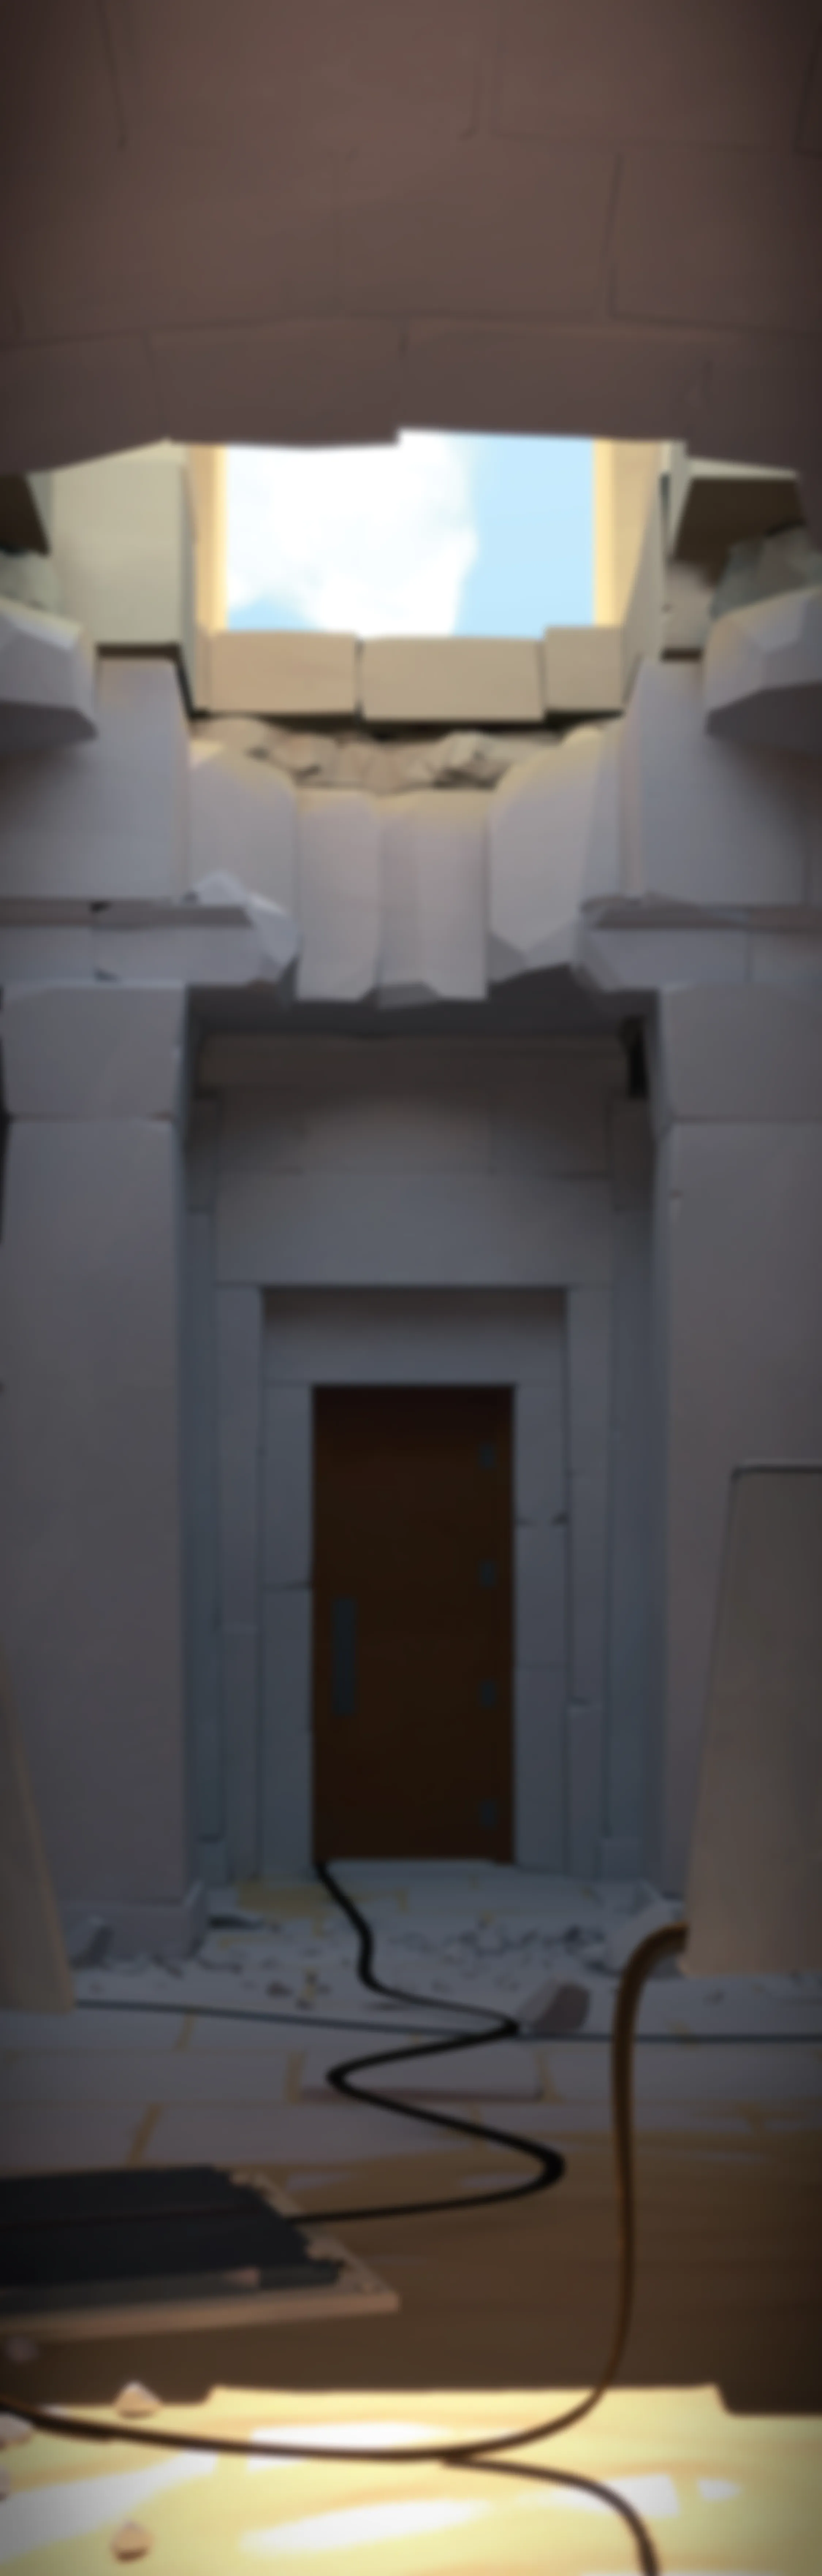
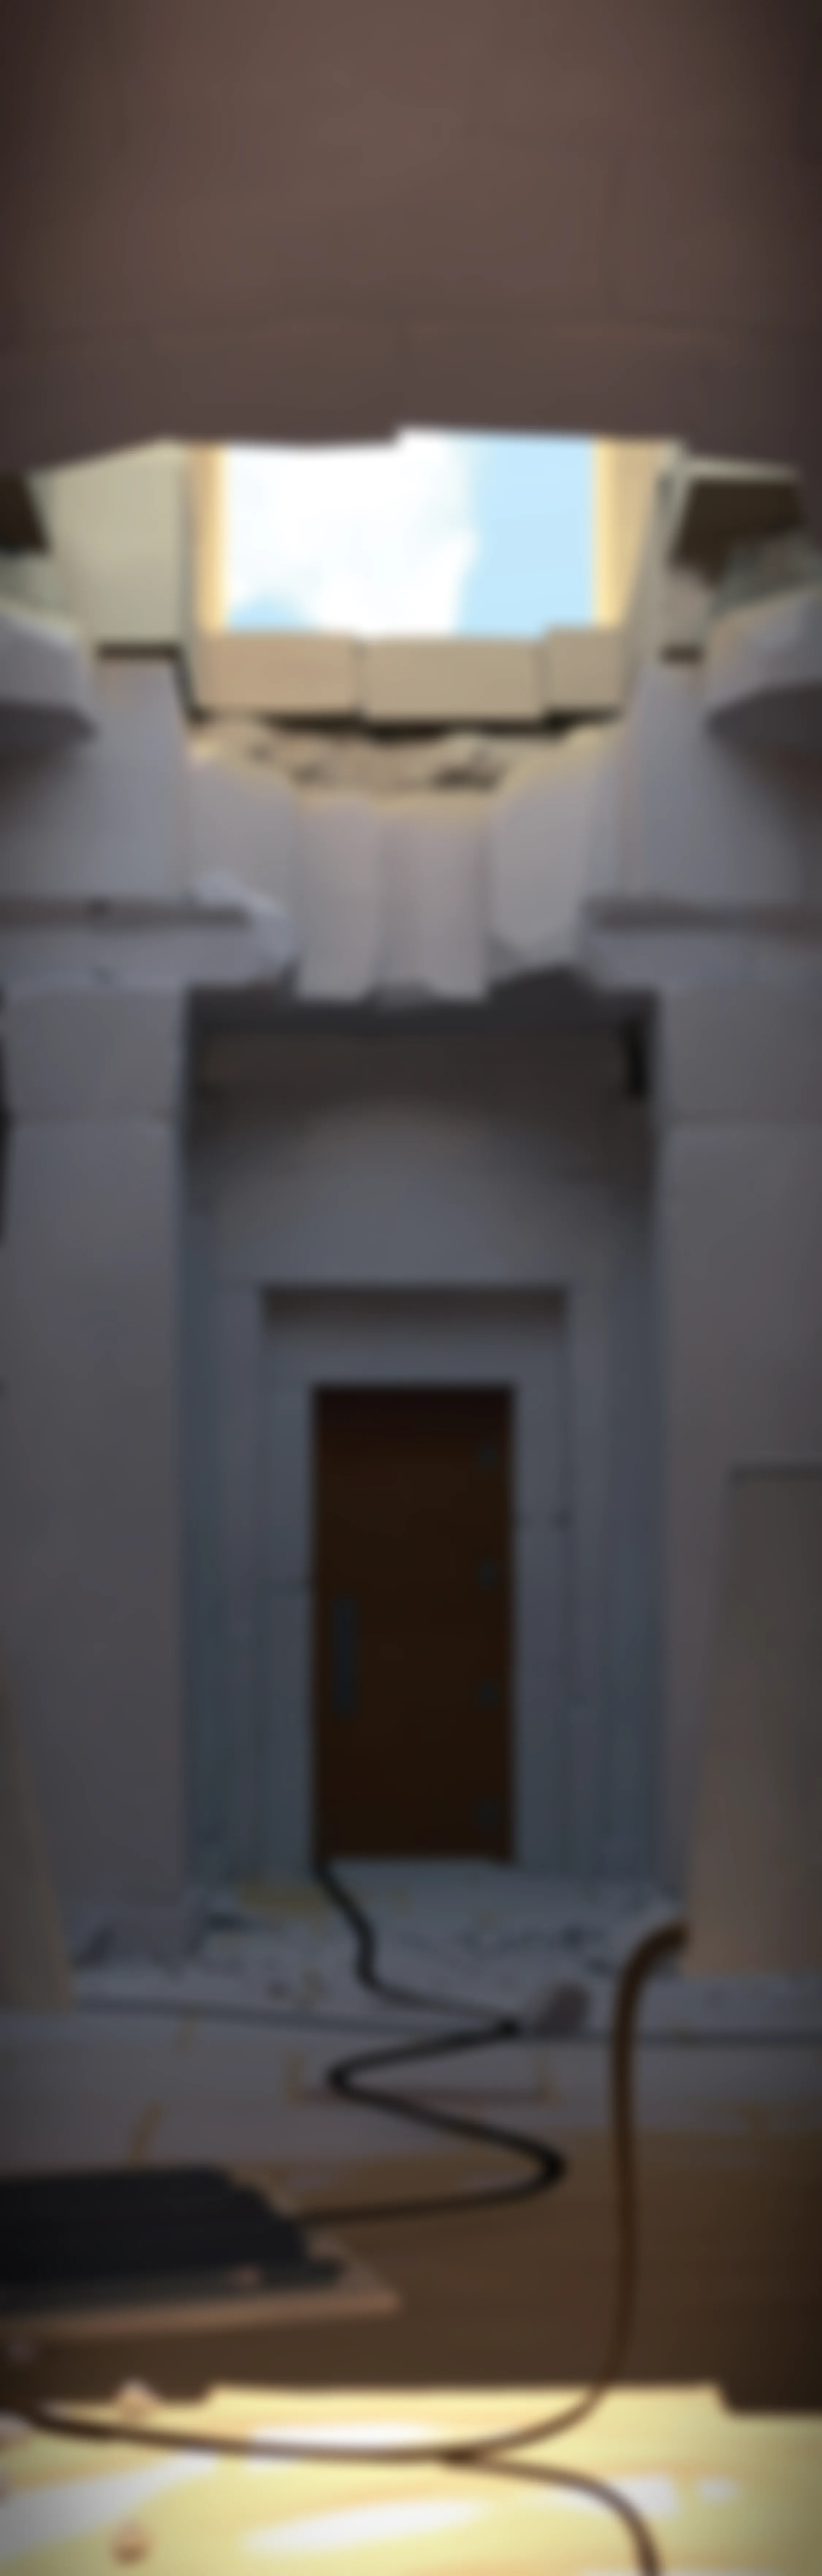
more blur and black puzzle default

diff --git a/src/app/the-witness/layout.tsx b/src/app/the-witness/layout.tsx
@@ -20,7 +20,7 @@ export default async function Layout({ children }: React.PropsWithChildren) {
           `${process.cwd()}/.local/${verticalBannerFilePath}/${fileName}.jpg`
         );
         await sharp(backgroundImageBuffer)
-          .blur({ sigma: 10 })
+          .blur({ sigma: 20 })
           .webp()
           .toFile(
             `${process.cwd()}/public/${verticalBannerFilePath}/${fileName}.webp`

diff --git a/src/sass/the-witness/_puzzle.scss b/src/sass/the-witness/_puzzle.scss
@@ -1,6 +1,6 @@
 @use "variables";
 
-@mixin puzzle-screen($border-width, $border-color, $background-color: blue) {
+@mixin puzzle-screen($border-width, $border-color, $background-color: black) {
   background: $border-color;
   box-shadow: inset 0 0 0.25rem 0.1rem rgba(0, 0, 0, 0.3),
     0 0 1.5rem 0.1rem rgba(0, 0, 0, 0.3);
